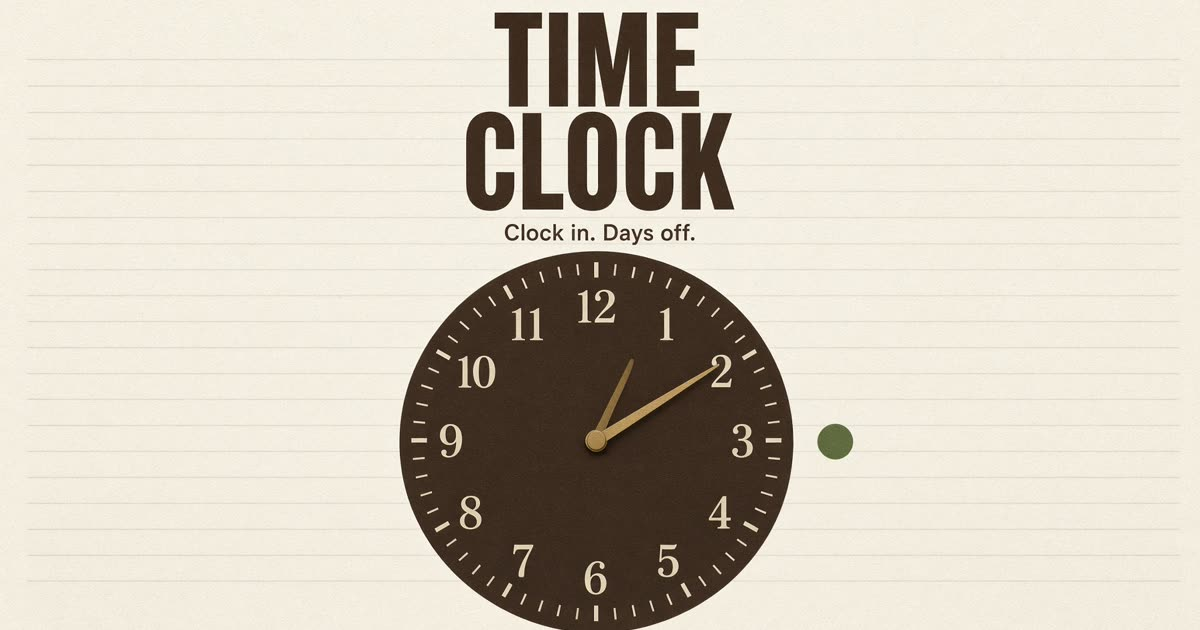
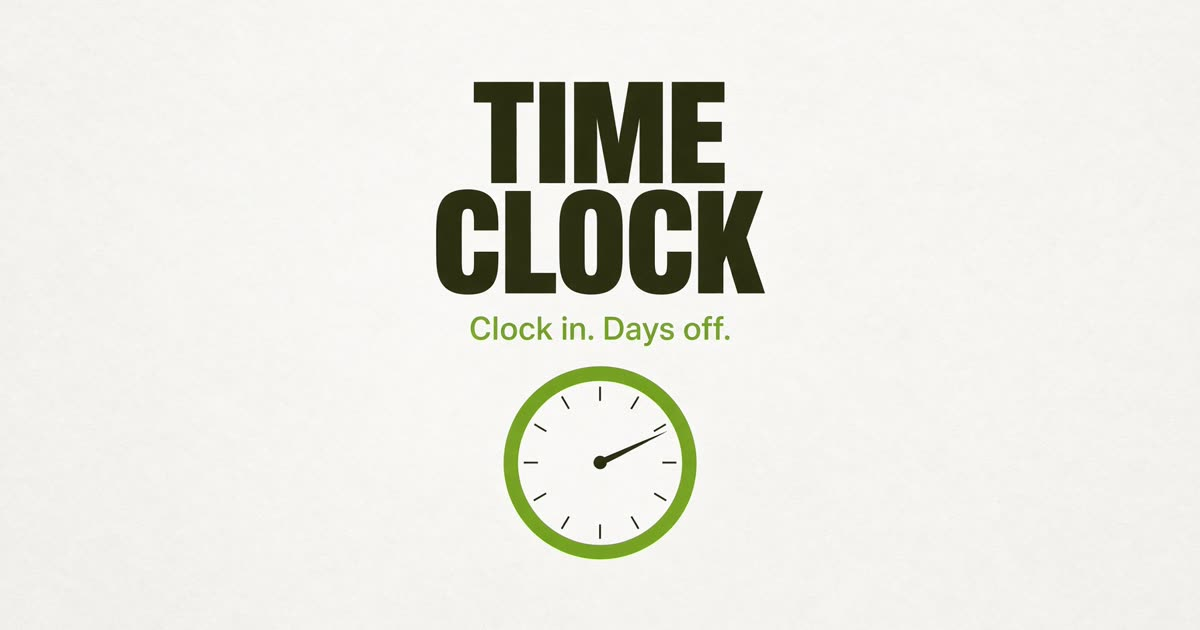
Switch the palette to navy, red, orange, gold, and cream.
Clock in is orange, clock out and primary buttons are navy, and the share cards match the green clock that was already in the preview.

diff --git a/src/styles.css b/src/styles.css
@@ -1,40 +1,42 @@
 @import "tailwindcss";
 
 /*
- * Palette built on the brand green #90a955 ("leaf").
- * leaf      the brand color: the Clock in button and "you / on" accents. Dark text goes on it, never white.
- * leaf-text a darker leaf that is readable as small text on paper and cards.
- * pine      the dark green for primary buttons, selected tabs and the Clock out button; foam text goes on it.
+ * Palette: https://coolors.co/palette/003049-d62828-f77f00-fcbf49-eae2b7
+ *   #003049 navy    ink, and the dark buttons (Clock out, selected tabs)
+ *   #d62828 red     small emphasis, such as "on the clock"
+ *   #f77f00 orange  the brand accent: Clock in, the header rule. Navy text on it, never white.
+ *   #fcbf49 gold    selected surfaces and lines
+ *   #eae2b7 cream   paper, cards, and text on navy
  */
 :root {
   color-scheme: light;
-  --paper: #f3f6ec;
-  --paper-2: #e6ecd9;
-  --ink: #1b2410;
-  --muted: #5c6a4c;
-  --line: #d6dfc6;
-  --card: #fdfef9;
-  --pine: #2e3d18;
-  --foam: #f7faef;
-  --leaf: #90a955;
-  --leaf-ink: #18200d;
-  --leaf-text: #4f6826;
+  --paper: #eae2b7;
+  --paper-2: #fcbf49;
+  --ink: #003049;
+  --muted: color-mix(in srgb, #003049 68%, #eae2b7);
+  --line: color-mix(in srgb, #003049 22%, #fcbf49);
+  --card: color-mix(in srgb, #eae2b7 78%, white);
+  --pine: #003049;
+  --foam: #eae2b7;
+  --leaf: #f77f00;
+  --leaf-ink: #003049;
+  --leaf-text: #d62828;
 }
 
 @media (prefers-color-scheme: dark) {
   :root {
     color-scheme: dark;
-    --paper: #10140b;
-    --paper-2: #1a2012;
-    --ink: #eef3e3;
-    --muted: #a7b396;
-    --line: #2b3420;
-    --card: #161b0f;
-    --pine: #dce7c4;
-    --foam: #18200d;
-    --leaf: #90a955;
-    --leaf-ink: #10160a;
-    --leaf-text: #a9c26d;
+    --paper: #003049;
+    --paper-2: color-mix(in srgb, #003049 72%, #000);
+    --ink: #eae2b7;
+    --muted: color-mix(in srgb, #eae2b7 68%, #003049);
+    --line: color-mix(in srgb, #fcbf49 40%, #003049);
+    --card: color-mix(in srgb, #003049 78%, #eae2b7);
+    --pine: #fcbf49;
+    --foam: #003049;
+    --leaf: #f77f00;
+    --leaf-ink: #003049;
+    --leaf-text: #fcbf49;
   }
 }
 

diff --git a/src/routes/__root.tsx b/src/routes/__root.tsx
@@ -16,7 +16,7 @@ export const Route = createRootRoute({
         { charSet: "utf-8" },
         { name: "viewport", content: "width=device-width, initial-scale=1" },
         { title: APP_NAME },
-        { name: "theme-color", content: "#90a955" },
+        { name: "theme-color", content: "#003049" },
         ...(xBanner ? [{ property: "x:game:image", content: xBanner }] : []),
       ],
       links: [

diff --git a/HANDOFF.md b/HANDOFF.md
@@ -70,14 +70,14 @@ The first account ever created becomes the admin.
 
 ### Colors
 
-The palette is built on the brand green **`#90a955`** and lives as tokens at the top of `src/styles.css` (light and dark). Use the tokens, never raw hex values in components.
+The palette is [navy, red, orange, gold, cream](https://coolors.co/palette/003049-d62828-f77f00-fcbf49-eae2b7) and lives as tokens at the top of `src/styles.css` (light and dark). Use the tokens, never raw hex values in components.
 
 | Token | Use |
 |---|---|
-| `leaf` (`#90a955`) | The brand color: the Clock in button, "you / on" accents, the header rule. Put `leaf-ink` (dark) text on it, never white: white on this green is too faint to read. |
-| `leaf-text` | A darker leaf for small text on paper and cards |
-| `pine` | Dark green for primary buttons, selected tabs and the Clock out button; `foam` text goes on it |
-| `paper`, `paper-2`, `card`, `line`, `ink`, `muted` | Backgrounds, borders and text |
+| `leaf` (`#f77f00`) | The brand accent: the Clock in button, "you" marks, the header rule. Put `leaf-ink` (`#003049`) text on it, never white. |
+| `leaf-text` (`#d62828`) | Red for small emphasis on paper, such as "on the clock" |
+| `pine` (`#003049`) | Navy for primary buttons, selected tabs and the Clock out button; `foam` (`#eae2b7`) text goes on it |
+| `paper` (`#eae2b7`), `paper-2` (`#fcbf49`), `card`, `line`, `ink`, `muted` | Cream and gold surfaces, borders, and navy text |
 
 ### Platform scaffold (leave alone unless you know why)
 
